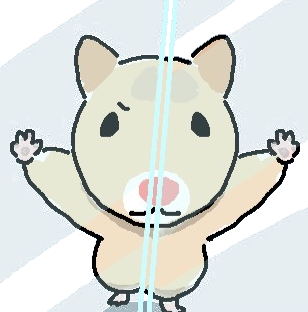
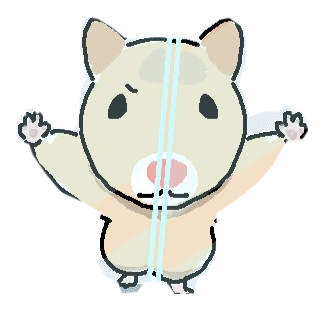
Update PWA from site.zip

diff --git a/index.html b/index.html
@@ -58,7 +58,7 @@
 <div id="zoneTwoPanel" hidden>
 
 <div class="card"><div class="pill-group" role="group" aria-label="계산 모드" hidden><button id="bossMode" class="pill active">상층 보스</button><button id="strikeMode" class="pill">일격 점수</button></div>
-<p class="hint">기존 사이트의 보정식(기본 654, 170초, 2배속 손실 4.29%)을 사용합니다.</p>
+
 <div id="bossControls"><div class="field"><label for="bossHp">보스 총 HP</label><input id="bossHp" type="number" min="1" step="1" inputmode="numeric"></div>
 <div id="bossPresets" class="pill-group" style="margin-top:9px"></div></div>
 <div class="grid" style="margin-top:10px"><div class="field"><label for="speed">배속</label><select id="speed"><option value="1">1배속</option><option value="2">2배속 (-4.29%)</option></select></div>
@@ -91,7 +91,7 @@
 </div>
 <div class="card"><h2>남은 시간 계산기</h2><div class="grid"><div class="field"><label for="remainingMin">현재 남은 시간 (분)</label><input id="remainingMin" type="number" min="0" value="0"></div><div class="field"><label for="remainingSec">현재 남은 시간 (초)</label><input id="remainingSec" type="number" min="0" value="0"></div><div class="field"><label for="targetMin">목표 시간 (분)</label><input id="targetMin" type="number" min="0" value="0"></div><div class="field"><label for="targetSec">목표 시간 (초)</label><input id="targetSec" type="number" min="0" value="0"></div></div><div id="remainingOutput" class="result-block"></div></div>
 <div class="card"><h2>데이터 백업 · 복원</h2><p class="note">이 기기의 계산 설정과 마지막 길드원 데이터가 백업됩니다. 공용 모드에서 복원은 제한되며, 서버 데이터는 이 백업으로 덮어쓰지 않습니다.</p><div class="actions"><button id="exportButton" class="primary">JSON 백업 저장</button><button id="showBackup" class="secondary">백업 텍스트 보기</button></div><div id="backupArea" hidden><label for="backupText" class="hint">복사용 백업 데이터</label><textarea id="backupText" readonly></textarea></div><hr class="sep"><label for="importFile" class="hint">JSON 백업 불러오기</label><input id="importFile" type="file" accept="application/json,.json"><p class="hint">복원하면 현재 데이터가 교체됩니다.</p></div>
-<div class="card"><h2>안내</h2><p class="note">이 앱은 원본 공개 계산식을 참조해 별도로 작성한 모바일 버전입니다. 상층 모드에서는 기본 격추값과 서버 격추값만, 일격 모드에서는 선택한 지역의 격추값도 합산합니다.</p><button id="resetButton" class="danger">길드원 목록 초기화</button></div>
+<div class="card"><h2>데이터 초기화</h2><button id="resetButton" class="danger">길드원 목록 초기화</button></div>
 </section>
 </main><div id="toast" class="status" role="status" hidden></div>
 <script src="calc.js"></script><script src="shared.js"></script><script src="app.js"></script></body></html>

diff --git a/sw.js b/sw.js
@@ -1,1 +1,1 @@
-const CACHE='gyesanjungiji-pwa-v4-groups-zone1-hero';const ASSETS=['./','./index.html','./styles.css','./app.js','./calc.js','./shared.js','./manifest.webmanifest','./assets/main-emblem.svg','./icon-192.png','./icon-512.png','./assets/bg-logo.png','./assets/hamster-particle.png','./assets/glass-hamster.png','./assets/note-hamster.png','./assets/snack-hamster.png','./assets/wheel-hamster.png','./assets/oops-hamster.png','./assets/depart-hamster.png'];self.addEventListener('install',e=>{e.waitUntil(caches.open(CACHE).then(c=>c.addAll(ASSETS)));self.skipWaiting()});self.addEventListener('activate',e=>{e.waitUntil(caches.keys().then(keys=>Promise.all(keys.filter(k=>k!==CACHE).map(k=>caches.delete(k)))));self.clients.claim()});self.addEventListener('fetch',e=>{const u=new URL(e.request.url);if(e.request.method!=='GET'||u.origin!==location.origin)return;e.respondWith(fetch(e.request).then(r=>{if(r.ok){const copy=r.clone();caches.open(CACHE).then(c=>c.put(e.request,copy))}return r}).catch(()=>caches.match(e.request)))});
+const CACHE='gyesanjungiji-pwa-v6-clean-copy';const ASSETS=['./','./index.html','./styles.css','./app.js','./calc.js','./shared.js','./manifest.webmanifest','./assets/main-emblem.svg','./icon-192.png','./icon-512.png','./assets/bg-logo.png','./assets/hamster-particle.png','./assets/glass-hamster.png','./assets/note-hamster.png','./assets/snack-hamster.png','./assets/wheel-hamster.png','./assets/oops-hamster.png','./assets/depart-hamster.png'];self.addEventListener('install',e=>{e.waitUntil(caches.open(CACHE).then(c=>c.addAll(ASSETS)));self.skipWaiting()});self.addEventListener('activate',e=>{e.waitUntil(caches.keys().then(keys=>Promise.all(keys.filter(k=>k!==CACHE).map(k=>caches.delete(k)))));self.clients.claim()});self.addEventListener('fetch',e=>{const u=new URL(e.request.url);if(e.request.method!=='GET'||u.origin!==location.origin)return;e.respondWith(fetch(e.request).then(r=>{if(r.ok){const copy=r.clone();caches.open(CACHE).then(c=>c.put(e.request,copy))}return r}).catch(()=>caches.match(e.request)))});

diff --git a/styles.css b/styles.css
@@ -387,3 +387,24 @@ button:disabled,input:disabled,select:disabled,textarea:disabled{opacity:.48;cur
 @media(max-width:360px){.zone-member-fields label{width:64px}.zone-member-fields input{padding:5px}.group-quota-grid b{font-size:17px}.home-action strong{font-size:18px}}
 @media(max-width:680px){main{padding-bottom:104px}.tabs{position:fixed;top:auto;bottom:0;left:0;right:0;max-width:820px;margin:auto;padding:10px 13px calc(10px + env(safe-area-inset-bottom,0px));z-index:20;background:rgba(24,9,38,.75);border-top:1px solid rgba(255,255,255,.13);backdrop-filter:blur(17px);-webkit-backdrop-filter:blur(17px)}.tabs::before{display:none}.tab{font-size:12px}}
 @media(prefers-reduced-motion:reduce){.hero-glow{filter:none}.hero-emblem{filter:none}}
+
+/* v3.1: Prevent lower home card stickers from looking cut off.
+   The top hero emblem is deliberately untouched. */
+.home-action img,
+.home-actions-grid .home-action img,
+.home-footer img {
+  object-fit:contain;
+  object-position:center;
+  overflow:visible;
+  flex-shrink:0;
+}
+.home-actions-grid .home-action {
+  min-height:150px;
+  padding:14px 9px;
+  overflow:visible;
+}
+.home-actions-grid .home-action img {
+  width:84px;
+  height:84px;
+  max-width:100%;
+}

diff --git a/README.md b/README.md
@@ -49,3 +49,8 @@
 - Node 기반 기존 계산/공용 서버/빈 명단 테스트 및 1구역 보상 배분 테스트 통과.
 - 정적 HTML 요소/스크립트 링크 및 ZIP 내부 구조 확인.
 - 현재 실행 환경에서는 Chromium 페이지 열기가 정책상 차단돼 **실제 모바일 브라우저 렌더링/터치 동작은 검증하지 못했습니다.** 공개 배포 후 화면과 입력 동작을 추가 점검해야 합니다.
+
+## v3.1 UI 수정
+- **하단 카드 아이콘만** 재작업: 길드원 관리/보상 추첨에 들어간 햄스터에서 잘린 말풍선 및 배경 조각을 제거하고 투명 여백을 확보했습니다.
+- 홈 중앙 상단 대표 아이콘, 배경, 파티클 및 기존 계산 기능은 수정하지 않았습니다.
+- 모바일 카드 높이와 아이콘 contain 정렬을 조정했습니다.
